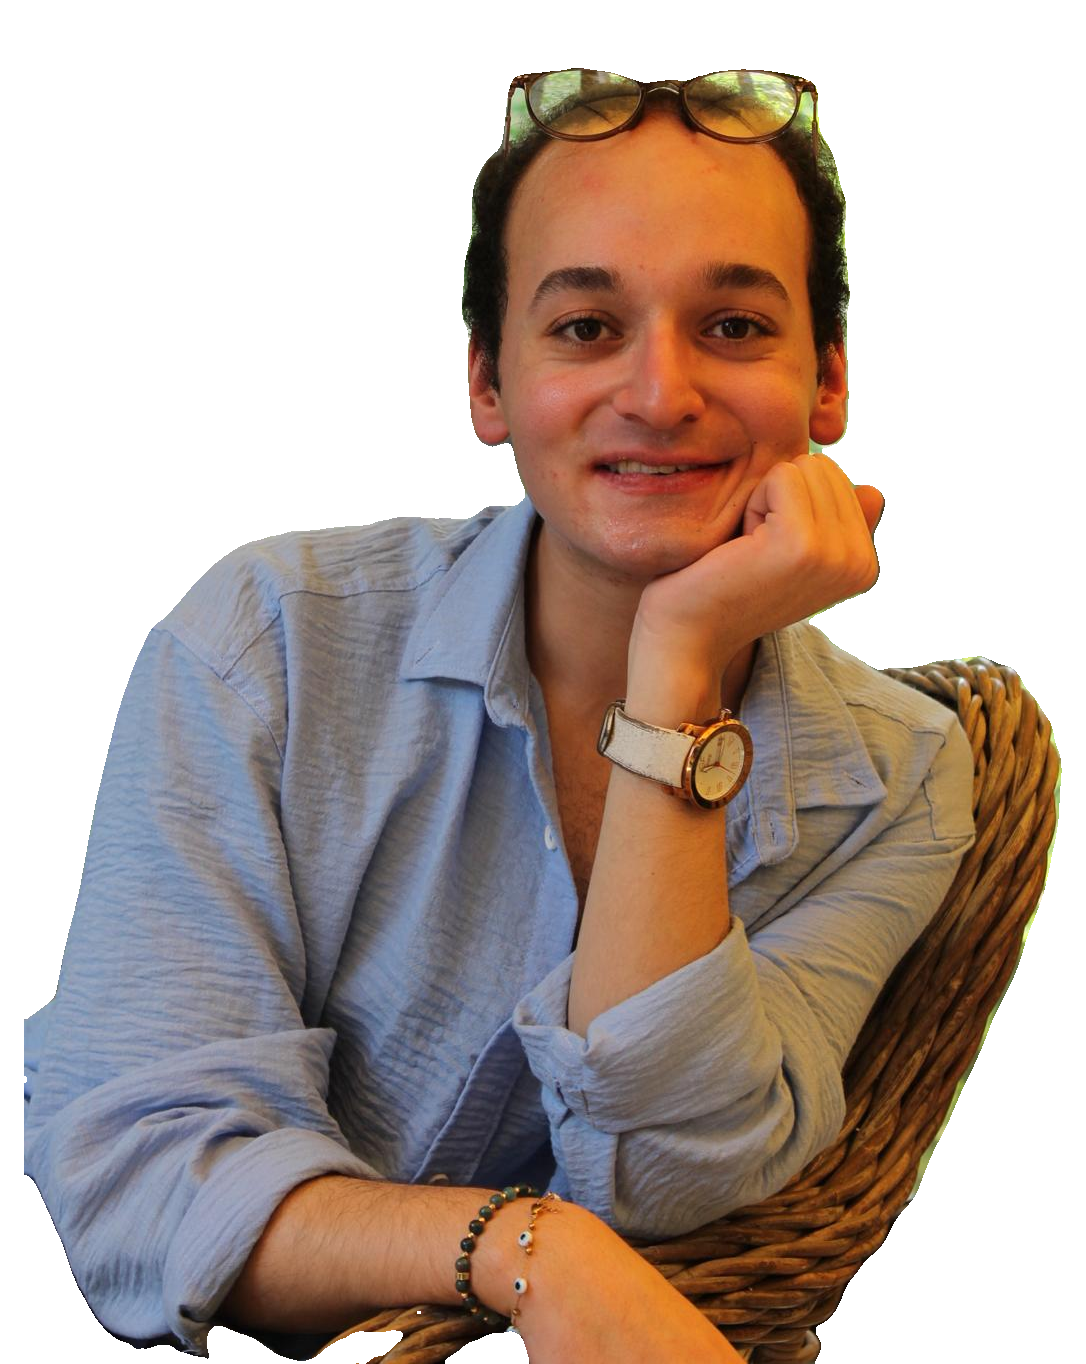
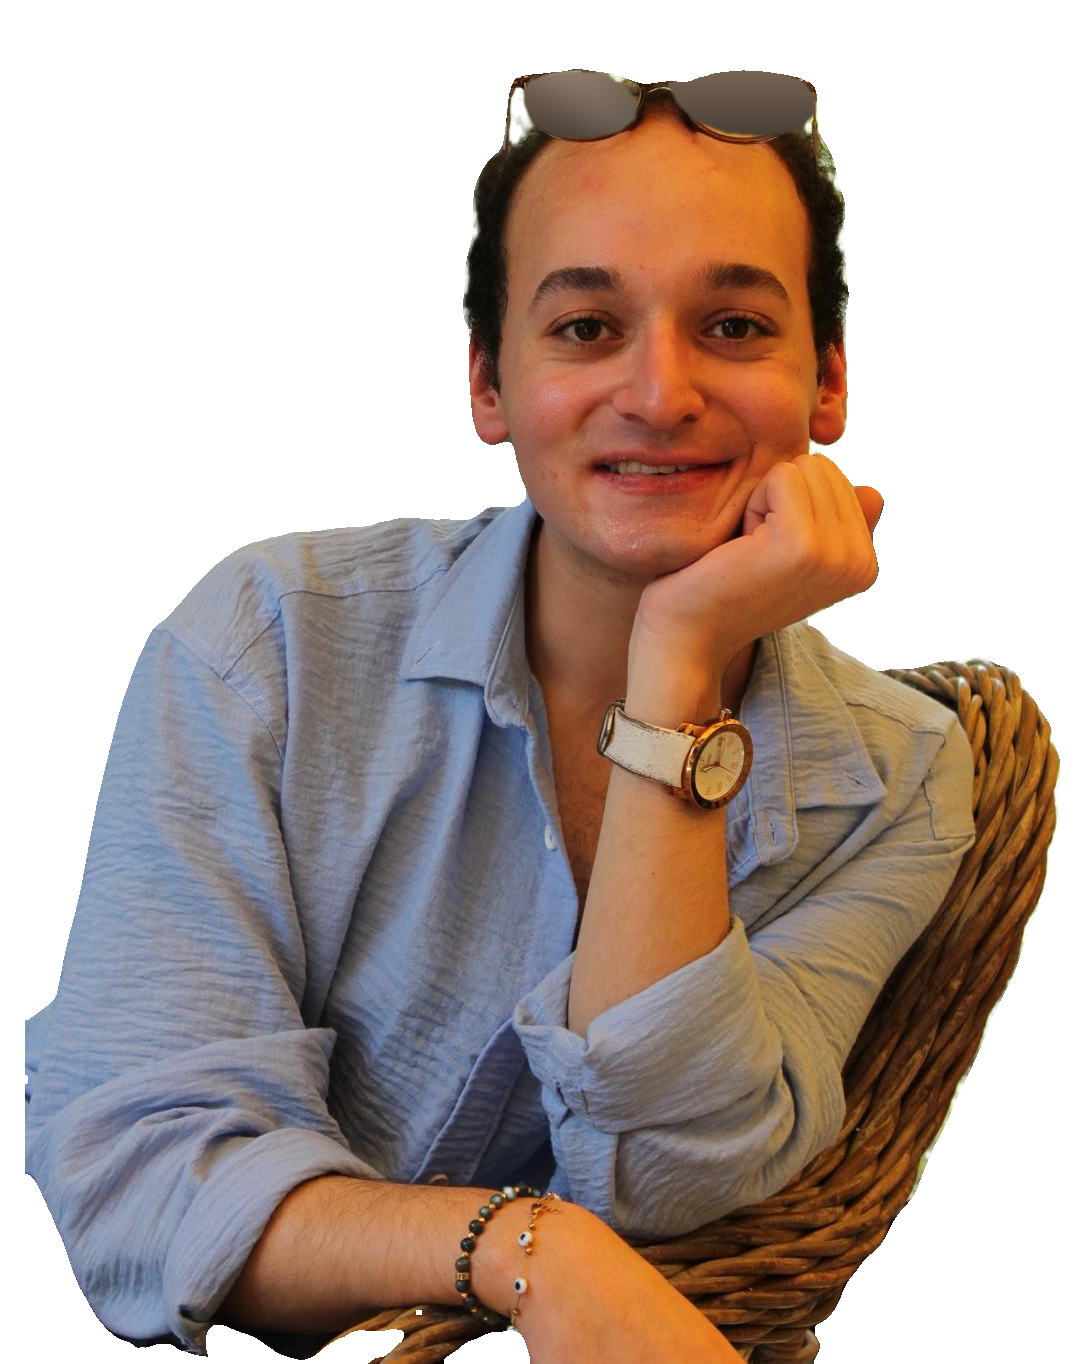
Hero portresinde gözlük içi ve saç kenarı artıklarını temizle
Arka plan temizliğinde gözlük camlarının içinde eski fotoğrafın
yeşillik/ağaç görüntüsü, saç kenarlarında da yeşil şeritler kalmıştı.
Cam içleri elle çizilmiş maskelerle doğal koyu cam dolgusuyla
kapatıldı, kenarlardaki yeşil kalıntılar renk anahtarıyla temizlendi.
Paylaşım kartı yeni portreyle yeniden üretildi; önbellek v3'e alındı.

Claude-Session: https://claude.ai/code/session_011eaLHZzc7bGWapW8EXTLpR

diff --git a/src/data/site.ts b/src/data/site.ts
@@ -151,7 +151,7 @@ export const heroContent = {
   stats: parseStats(heroData.stats, defaultHeroStats),
   heroImage: '/assets/images/hero-person.webp',
   heroImageAlt: 'Bader Beyler ekip görseli',
-  focusImage: '/assets/images/hero-focus-portrait.webp?v=2',
+  focusImage: '/assets/images/hero-focus-portrait.webp?v=3',
   focusImageAlt: 'Bader Beyler portre görseli',
   appearance: {
     rightPanelWidth: 480,
